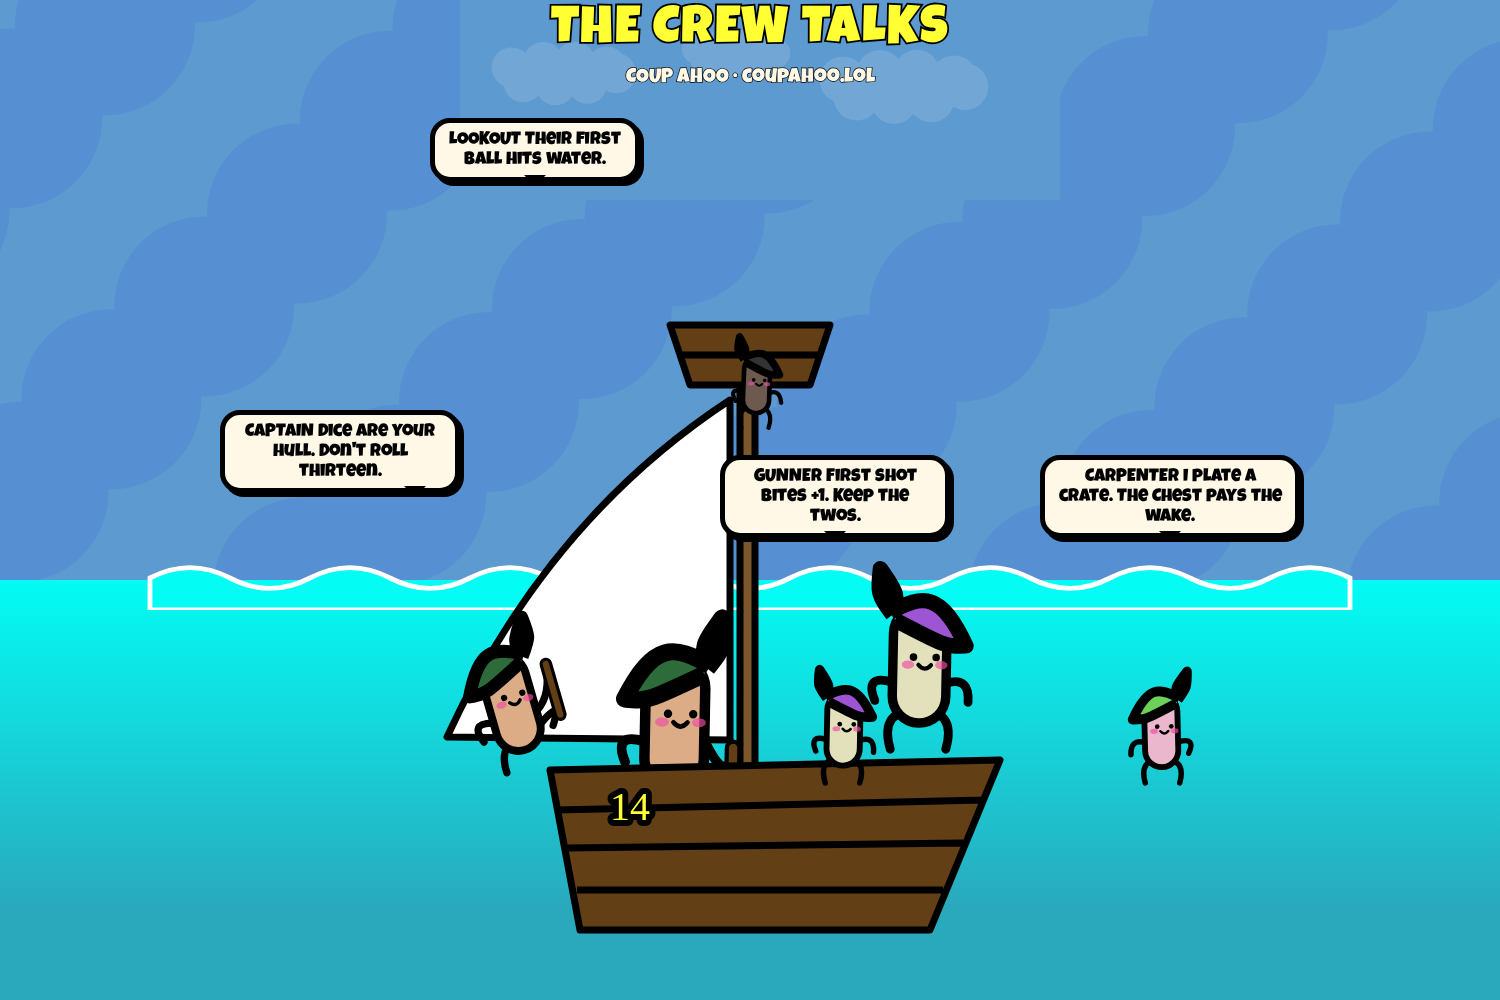
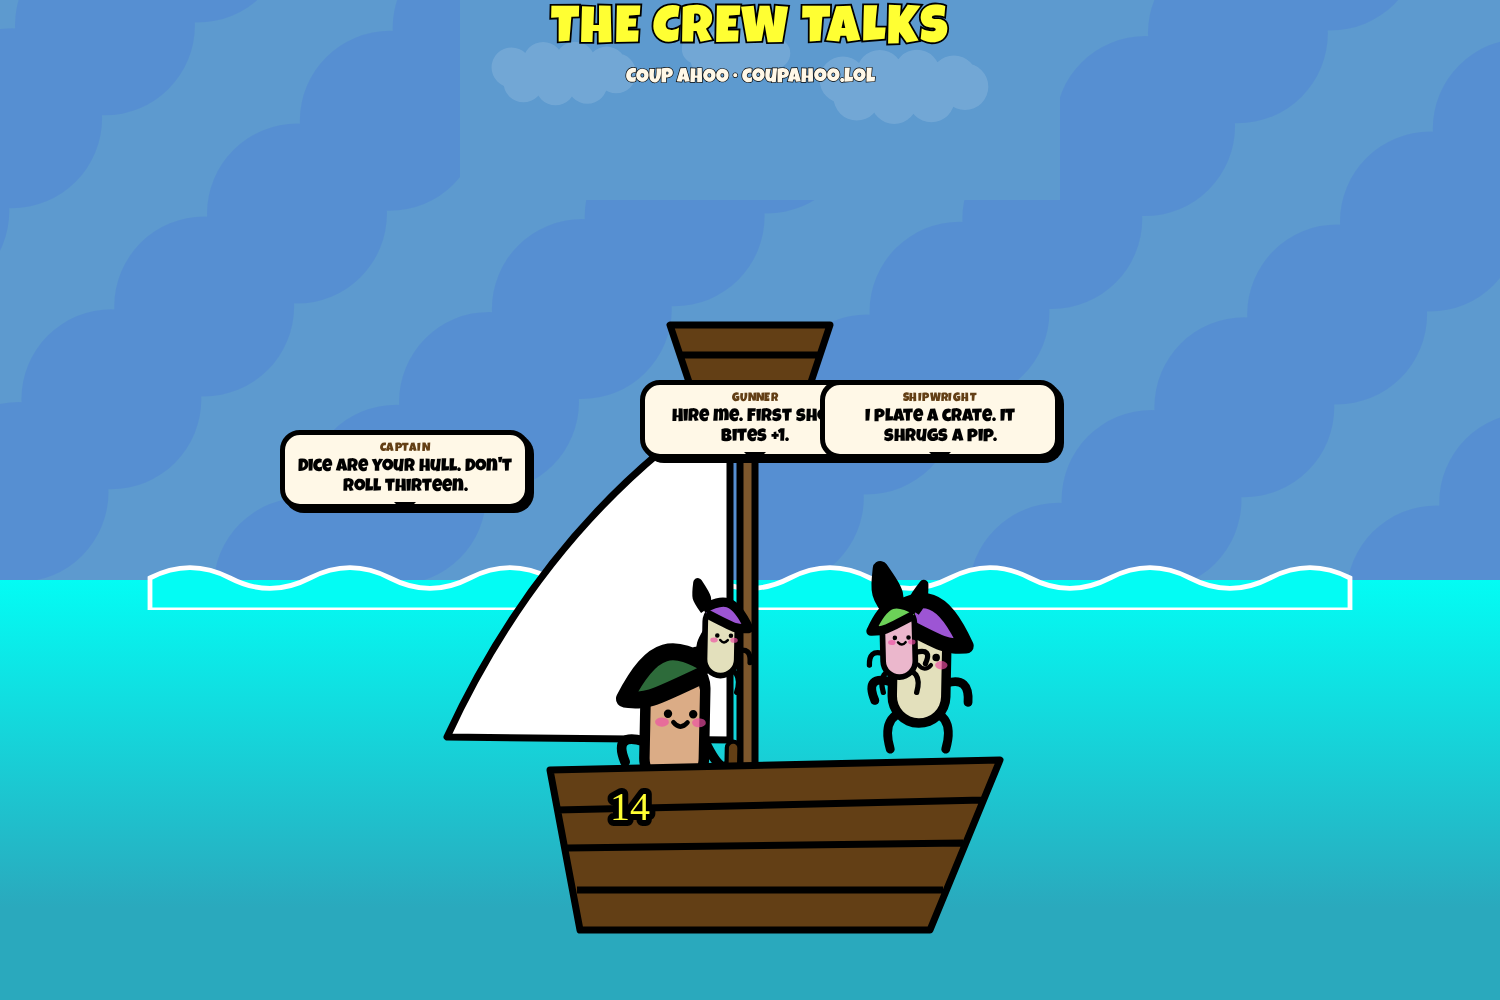
Three on the deck: captain, gunner, shipwright.

diff --git a/public/x/crew.html b/public/x/crew.html
@@ -50,7 +50,7 @@
         border: 11px solid transparent;
         border-top-color: #000;
       }
-      .bubble.tail-end:after { left: 78%; margin-left: 0; }
+      .who { display: block; font-size: 12px; color: #633f15; margin-bottom: 2px; letter-spacing: 0.04em; }
     </style>
   </head>
   <body>
@@ -65,41 +65,27 @@
       <p class="t" style="position:absolute;left:0;right:0;top:8px;font-size:52px;z-index:9">THE CREW TALKS</p>
       <p class="s" style="position:absolute;left:0;right:0;top:68px;font-size:20px;z-index:9">COUP AHOO · coupahoo.lol</p>
 
-      <!-- hull sits in the water; deck ~ 68% down the ship graphic -->
       <img class="fg" src="/ahoo/ship-player.svg" alt=""
            style="left:250px;bottom:20px;width:1000px;height:700px;z-index:3" />
 
-      <!-- LOOKOUT in the crow's nest -->
-      <div class="bubble" style="left:430px;top:118px;width:210px">
-        <span class="who">LOOKOUT</span>
-        Their first ball hits water.
-      </div>
-      <img class="fg" src="/ahoo/crew-navigator.svg" alt=""
-           style="left:690px;bottom:560px;width:130px;height:175px;z-index:5" />
-
-      <!-- CAPTAIN on deck -->
-      <div class="bubble tail-end" style="left:220px;top:410px;width:240px">
+      <div class="bubble" style="left:280px;top:430px;width:250px">
         <span class="who">CAPTAIN</span>
         Dice are your hull. Don't roll thirteen.
       </div>
-      <img class="fg" src="/ahoo/captain-posing.svg" alt=""
-           style="left:430px;bottom:195px;width:200px;height:275px;z-index:6" />
 
-      <!-- GUNNER on deck -->
-      <div class="bubble" style="left:720px;top:455px;width:230px">
+      <div class="bubble" style="left:640px;top:380px;width:230px">
         <span class="who">GUNNER</span>
-        First shot bites +1. Keep the twos.
+        Hire me. First shot bites +1.
       </div>
       <img class="fg" src="/ahoo/crew-cannoneer.svg" alt=""
-           style="left:760px;bottom:200px;width:165px;height:225px;z-index:5" />
+           style="left:640px;bottom:290px;width:160px;height:220px;z-index:5" />
 
-      <!-- CARPENTER on the bow -->
-      <div class="bubble" style="left:1040px;top:455px;width:260px">
-        <span class="who">CARPENTER</span>
-        I plate a crate. The Chest pays the wake.
+      <div class="bubble" style="left:820px;top:380px;width:240px">
+        <span class="who">SHIPWRIGHT</span>
+        I plate a crate. It shrugs a pip.
       </div>
       <img class="fg" src="/ahoo/crew-quartermaster.svg" alt=""
-           style="left:1080px;bottom:200px;width:165px;height:225px;z-index:5" />
+           style="left:820px;bottom:290px;width:160px;height:220px;z-index:5" />
     </div>
   </body>
 </html>

diff --git a/public/x/CREW.md b/public/x/CREW.md
@@ -2,12 +2,11 @@ Image: crew.png (3:2)
 
 The crew, in their own words.
 
-Lookout: Their first ball hits water.
 Captain: Dice are your hull. Don't roll thirteen.
-Gunner: First shot bites +1. Keep the twos.
-Carpenter: I plate a crate. The Chest pays the wake.
+Gunner: Hire me. First shot bites +1.
+Shipwright: I plate a crate. It shrugs a pip.
 
-Nine fights. Last is the flagship. Empty deck sinks.
+Empty decks sink. The Chest pays the wake.
 
 Play: https://coupahoo.lol
 $AHOO: https://www.letscash.fun/token/0x91DBFfB64Fe301535689e5679625af6F70beEDcc
